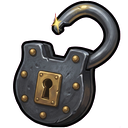
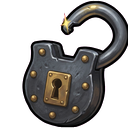
Gate lock: centred sprite, clean ring

diff --git a/src/ui/hud.ts b/src/ui/hud.ts
@@ -1533,13 +1533,13 @@ export class Hud {
     const r = 8.5;
     ctx.save();
     ctx.globalAlpha = locked ? 1 : Math.max(0, 1 - since / 2.5);
-    ctx.fillStyle = "rgba(20,12,6,0.7)";
+    ctx.fillStyle = "rgba(24,16,8,0.72)";
     ctx.beginPath();
-    ctx.arc(x, y, r + 1.6, 0, Math.PI * 2);
+    ctx.arc(x, y, r, 0, Math.PI * 2);
     ctx.fill();
     ctx.lineCap = "round";
     ctx.lineWidth = 2.2;
-    ctx.strokeStyle = "rgba(255,240,200,0.18)";
+    ctx.strokeStyle = "#4a3820";
     ctx.beginPath();
     ctx.arc(x, y, r, 0, Math.PI * 2);
     ctx.stroke();
